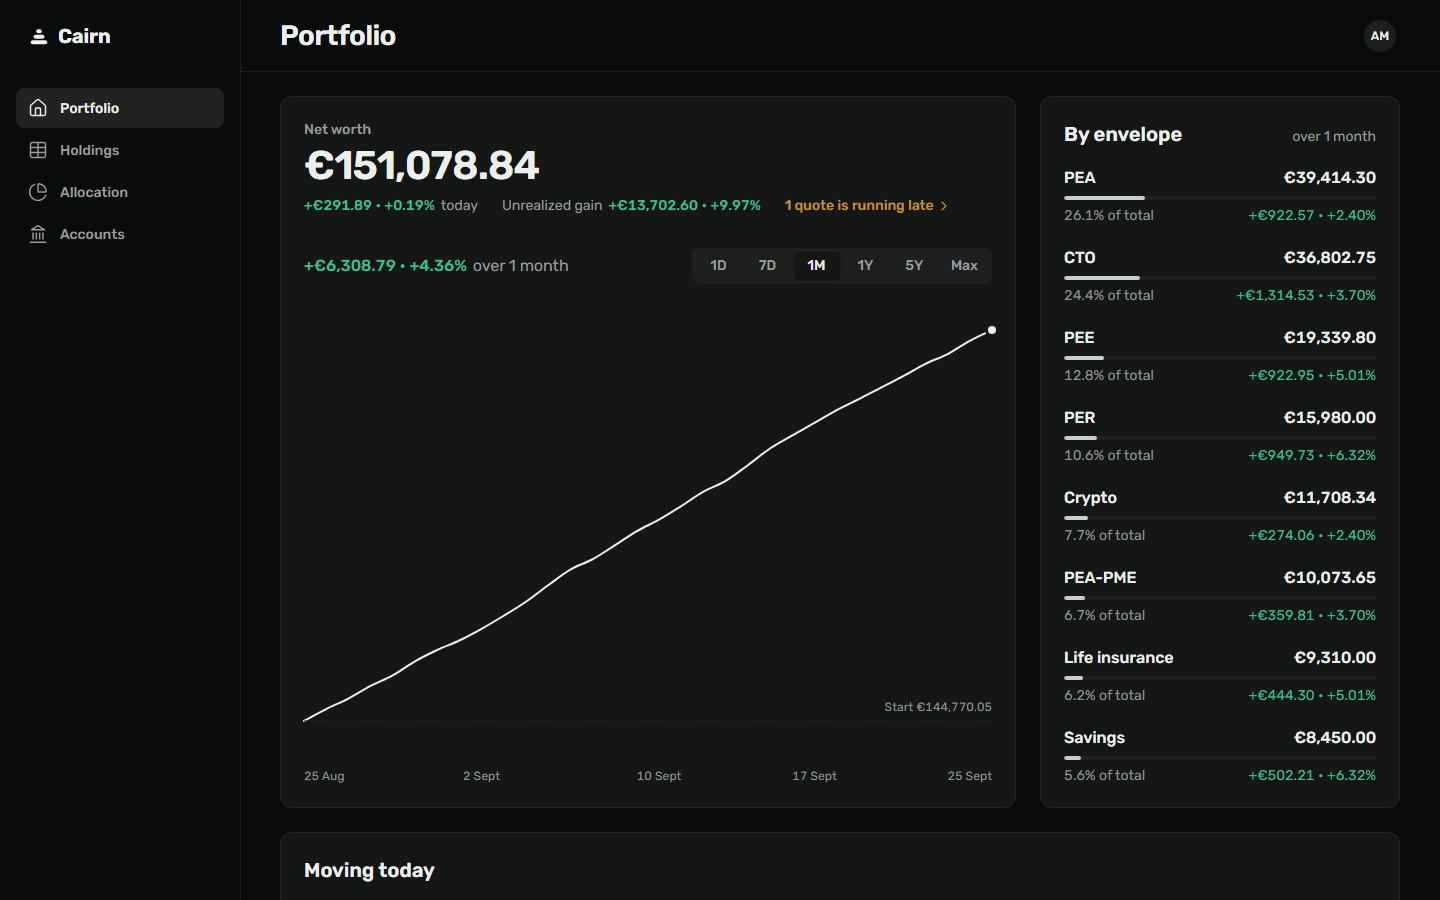
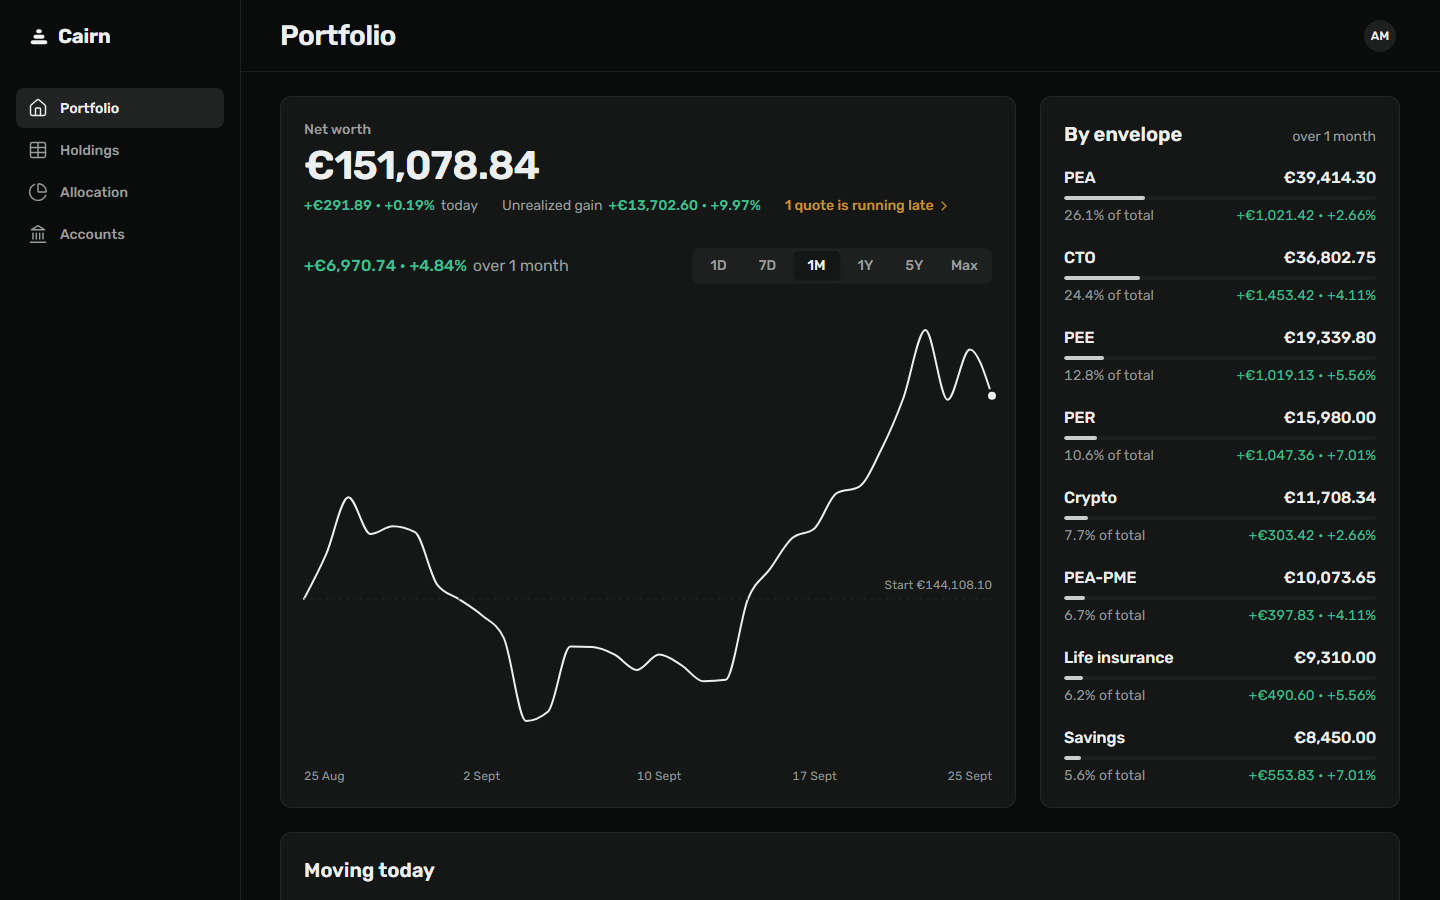
chore: exact versions, cairn-ui 0.8.2, README screenshots (#49)

diff --git a/README.md b/README.md
@@ -1,9 +1,13 @@
-<div align="center">
+<p align="center">
+  <picture>
+    <source media="(prefers-color-scheme: dark)" srcset="docs/github/banner-dark.png">
+    <img alt="Cairn: Wealth tracking, line by line." src="docs/github/banner-light.png">
+  </picture>
+</p>
 
-<picture>
-  <source media="(prefers-color-scheme: dark)" srcset="docs/github/banner-dark.png">
-  <img alt="Cairn: Wealth tracking, line by line." src="docs/github/banner-light.png">
-</picture>
+<br>
+
+<div align="center">
 
 [![CI](https://github.com/JoanRoucoux/cairn-web/actions/workflows/ci.yml/badge.svg)](https://github.com/JoanRoucoux/cairn-web/actions/workflows/ci.yml)
 [![Deploy](https://github.com/JoanRoucoux/cairn-web/actions/workflows/deploy.yml/badge.svg)](https://github.com/JoanRoucoux/cairn-web/actions/workflows/deploy.yml)
@@ -18,10 +22,22 @@ The Angular frontend of [Cairn](https://github.com/JoanRoucoux/cairn), a single-
 
 It is built on the [Cairn UI](https://github.com/JoanRoucoux/cairn-ui) design system ([Storybook](https://joanroucoux.github.io/cairn-ui/)) and runs at https://cairn.joanroucoux.fr, behind passkey sign-in.
 
-<picture>
-  <source media="(prefers-color-scheme: dark)" srcset="docs/github/screenshots/dashboard-dark.png">
-  <img alt="The Cairn dashboard" src="docs/github/screenshots/dashboard-light.png">
-</picture>
+<p align="center">
+  <img alt="The dashboard: net worth, day change, unrealized gain, the performance chart over a selectable range and the envelopes" src="docs/github/screenshots/dashboard-dark.png">
+</p>
+
+<table>
+  <tr>
+    <td width="50%"><img alt="Allocation of the portfolio by asset class and by account" src="docs/github/screenshots/allocation-dark.png"></td>
+    <td width="50%"><img alt="The holdings list with the detail panel of one holding open" src="docs/github/screenshots/holding-dark.png"></td>
+  </tr>
+</table>
+
+<p align="center">
+  <img alt="Mobile dashboard" src="docs/github/screenshots/mobile-dashboard-dark.png" width="30%">
+  <img alt="Mobile holdings list" src="docs/github/screenshots/mobile-holdings-dark.png" width="30%">
+  <img alt="Mobile holding detail" src="docs/github/screenshots/mobile-holding-dark.png" width="30%">
+</p>
 
 The data shown is fictional.
 
